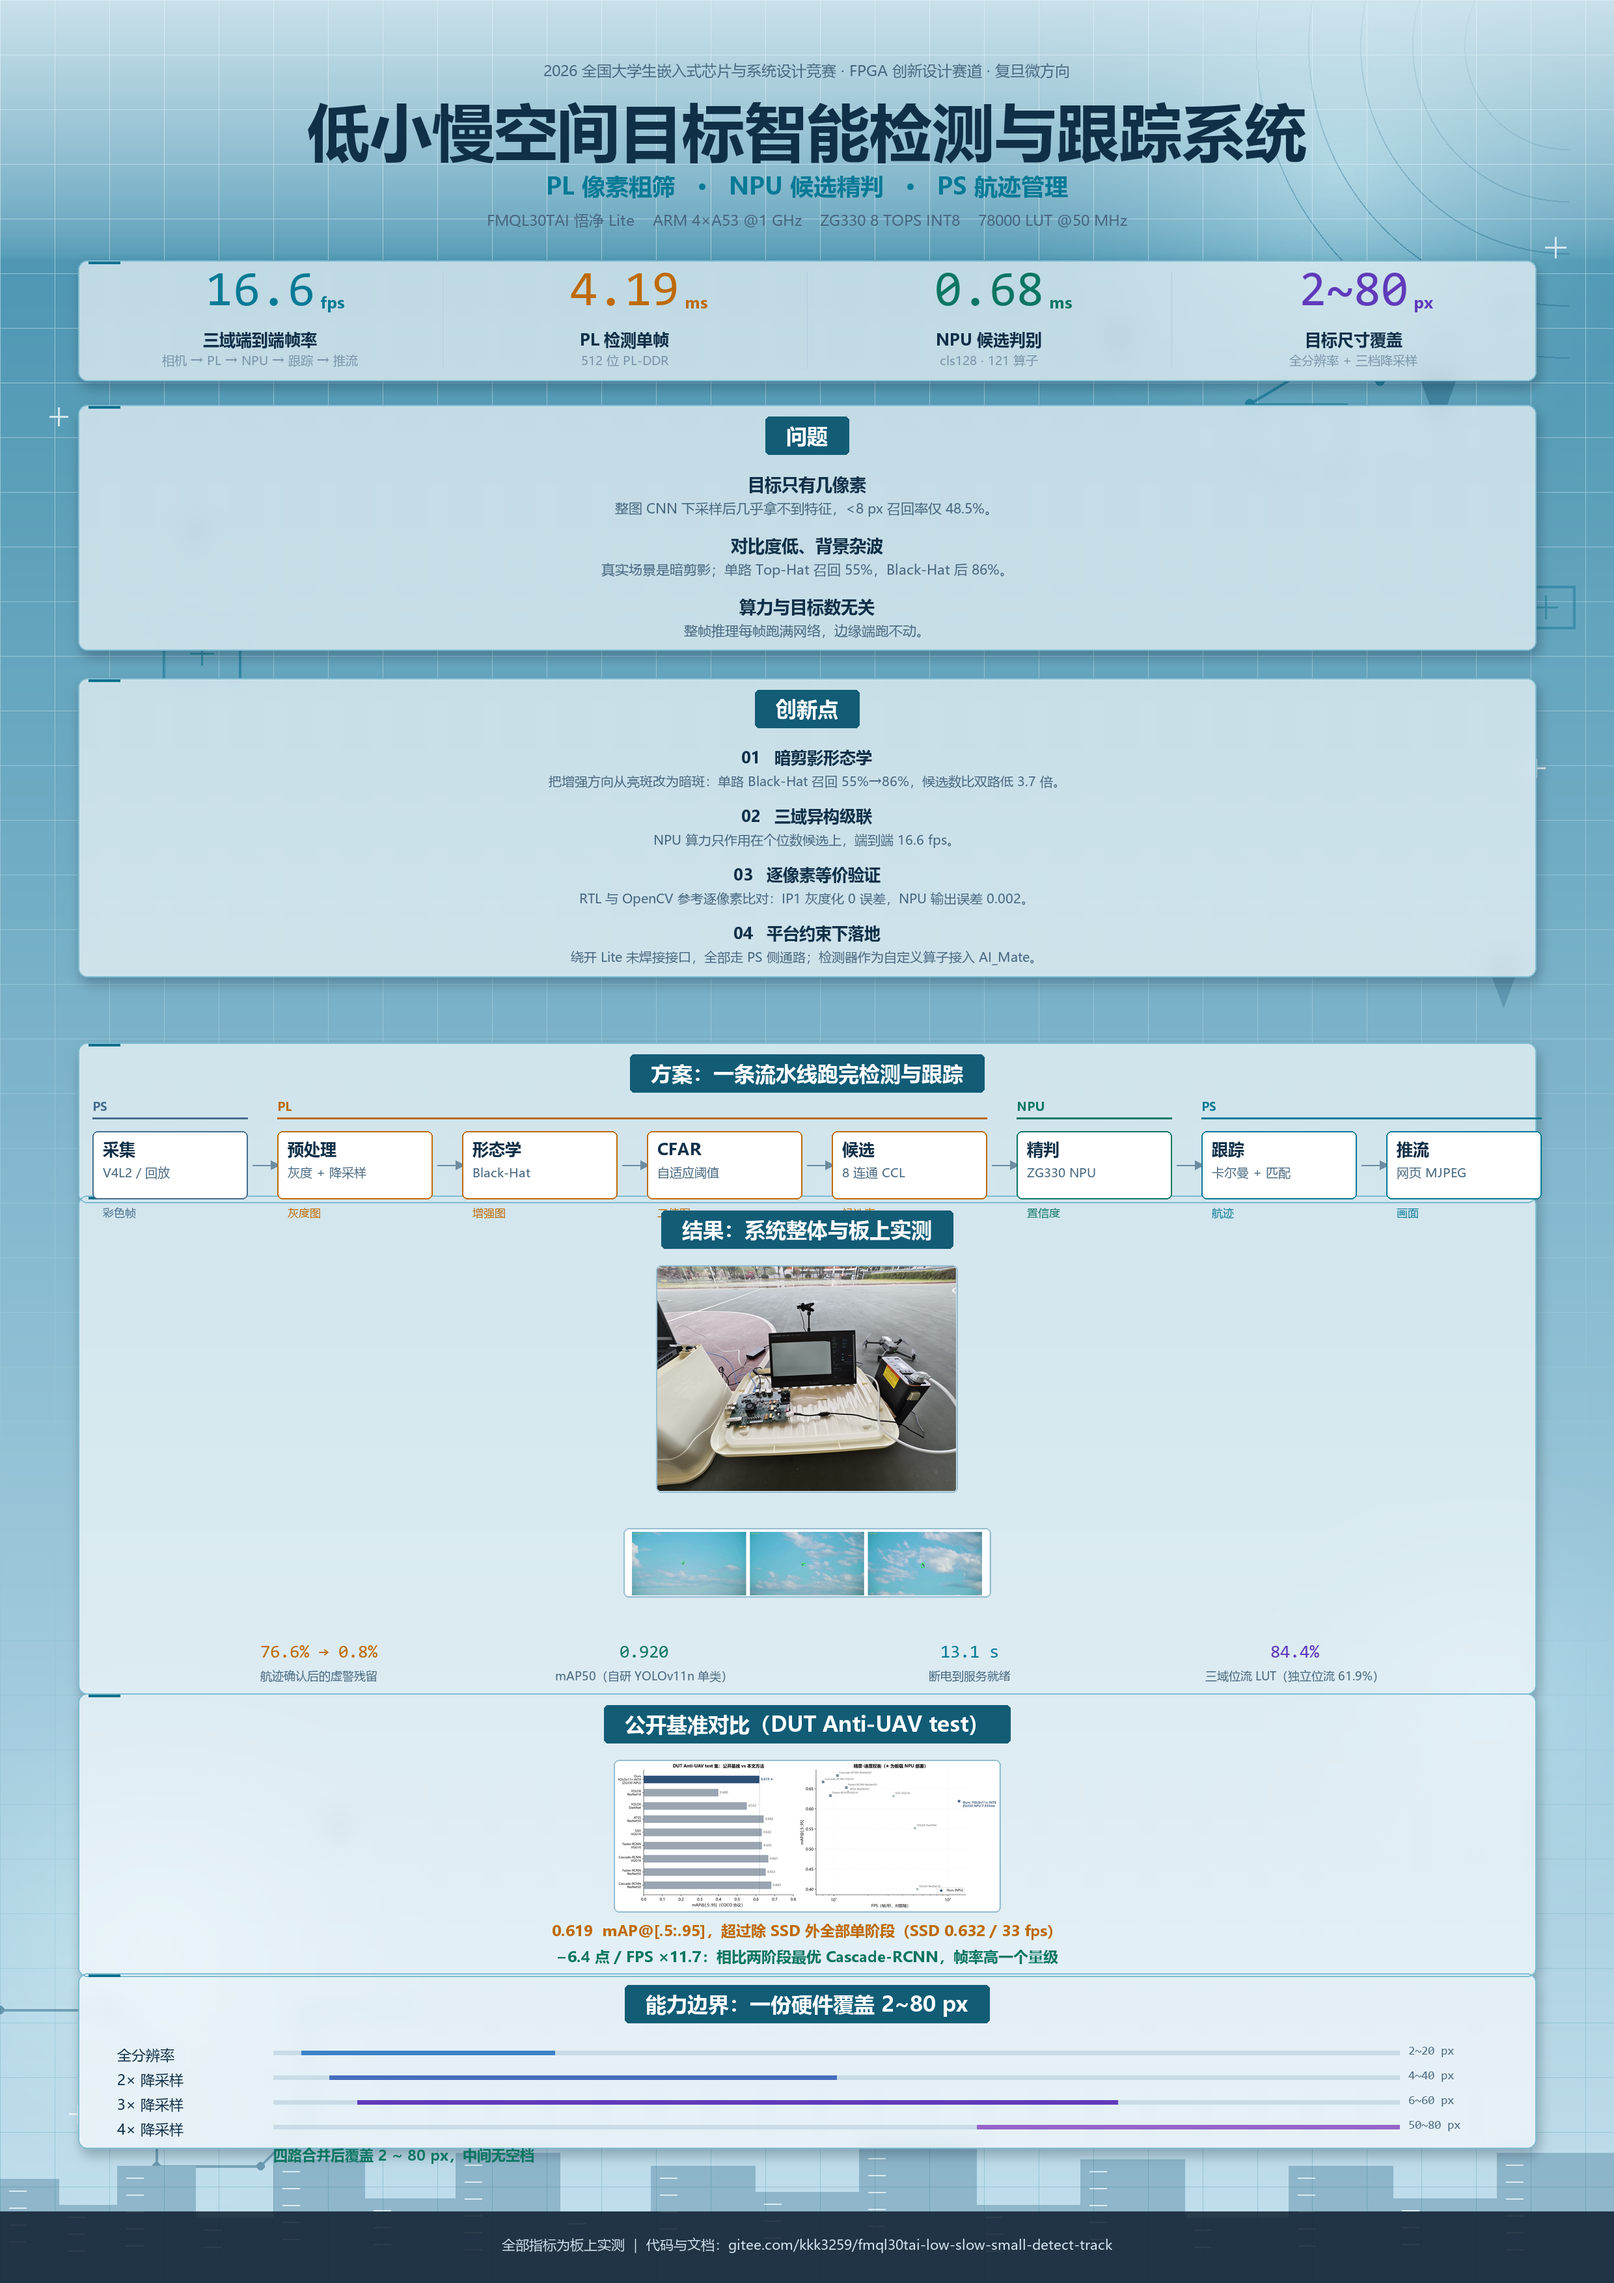
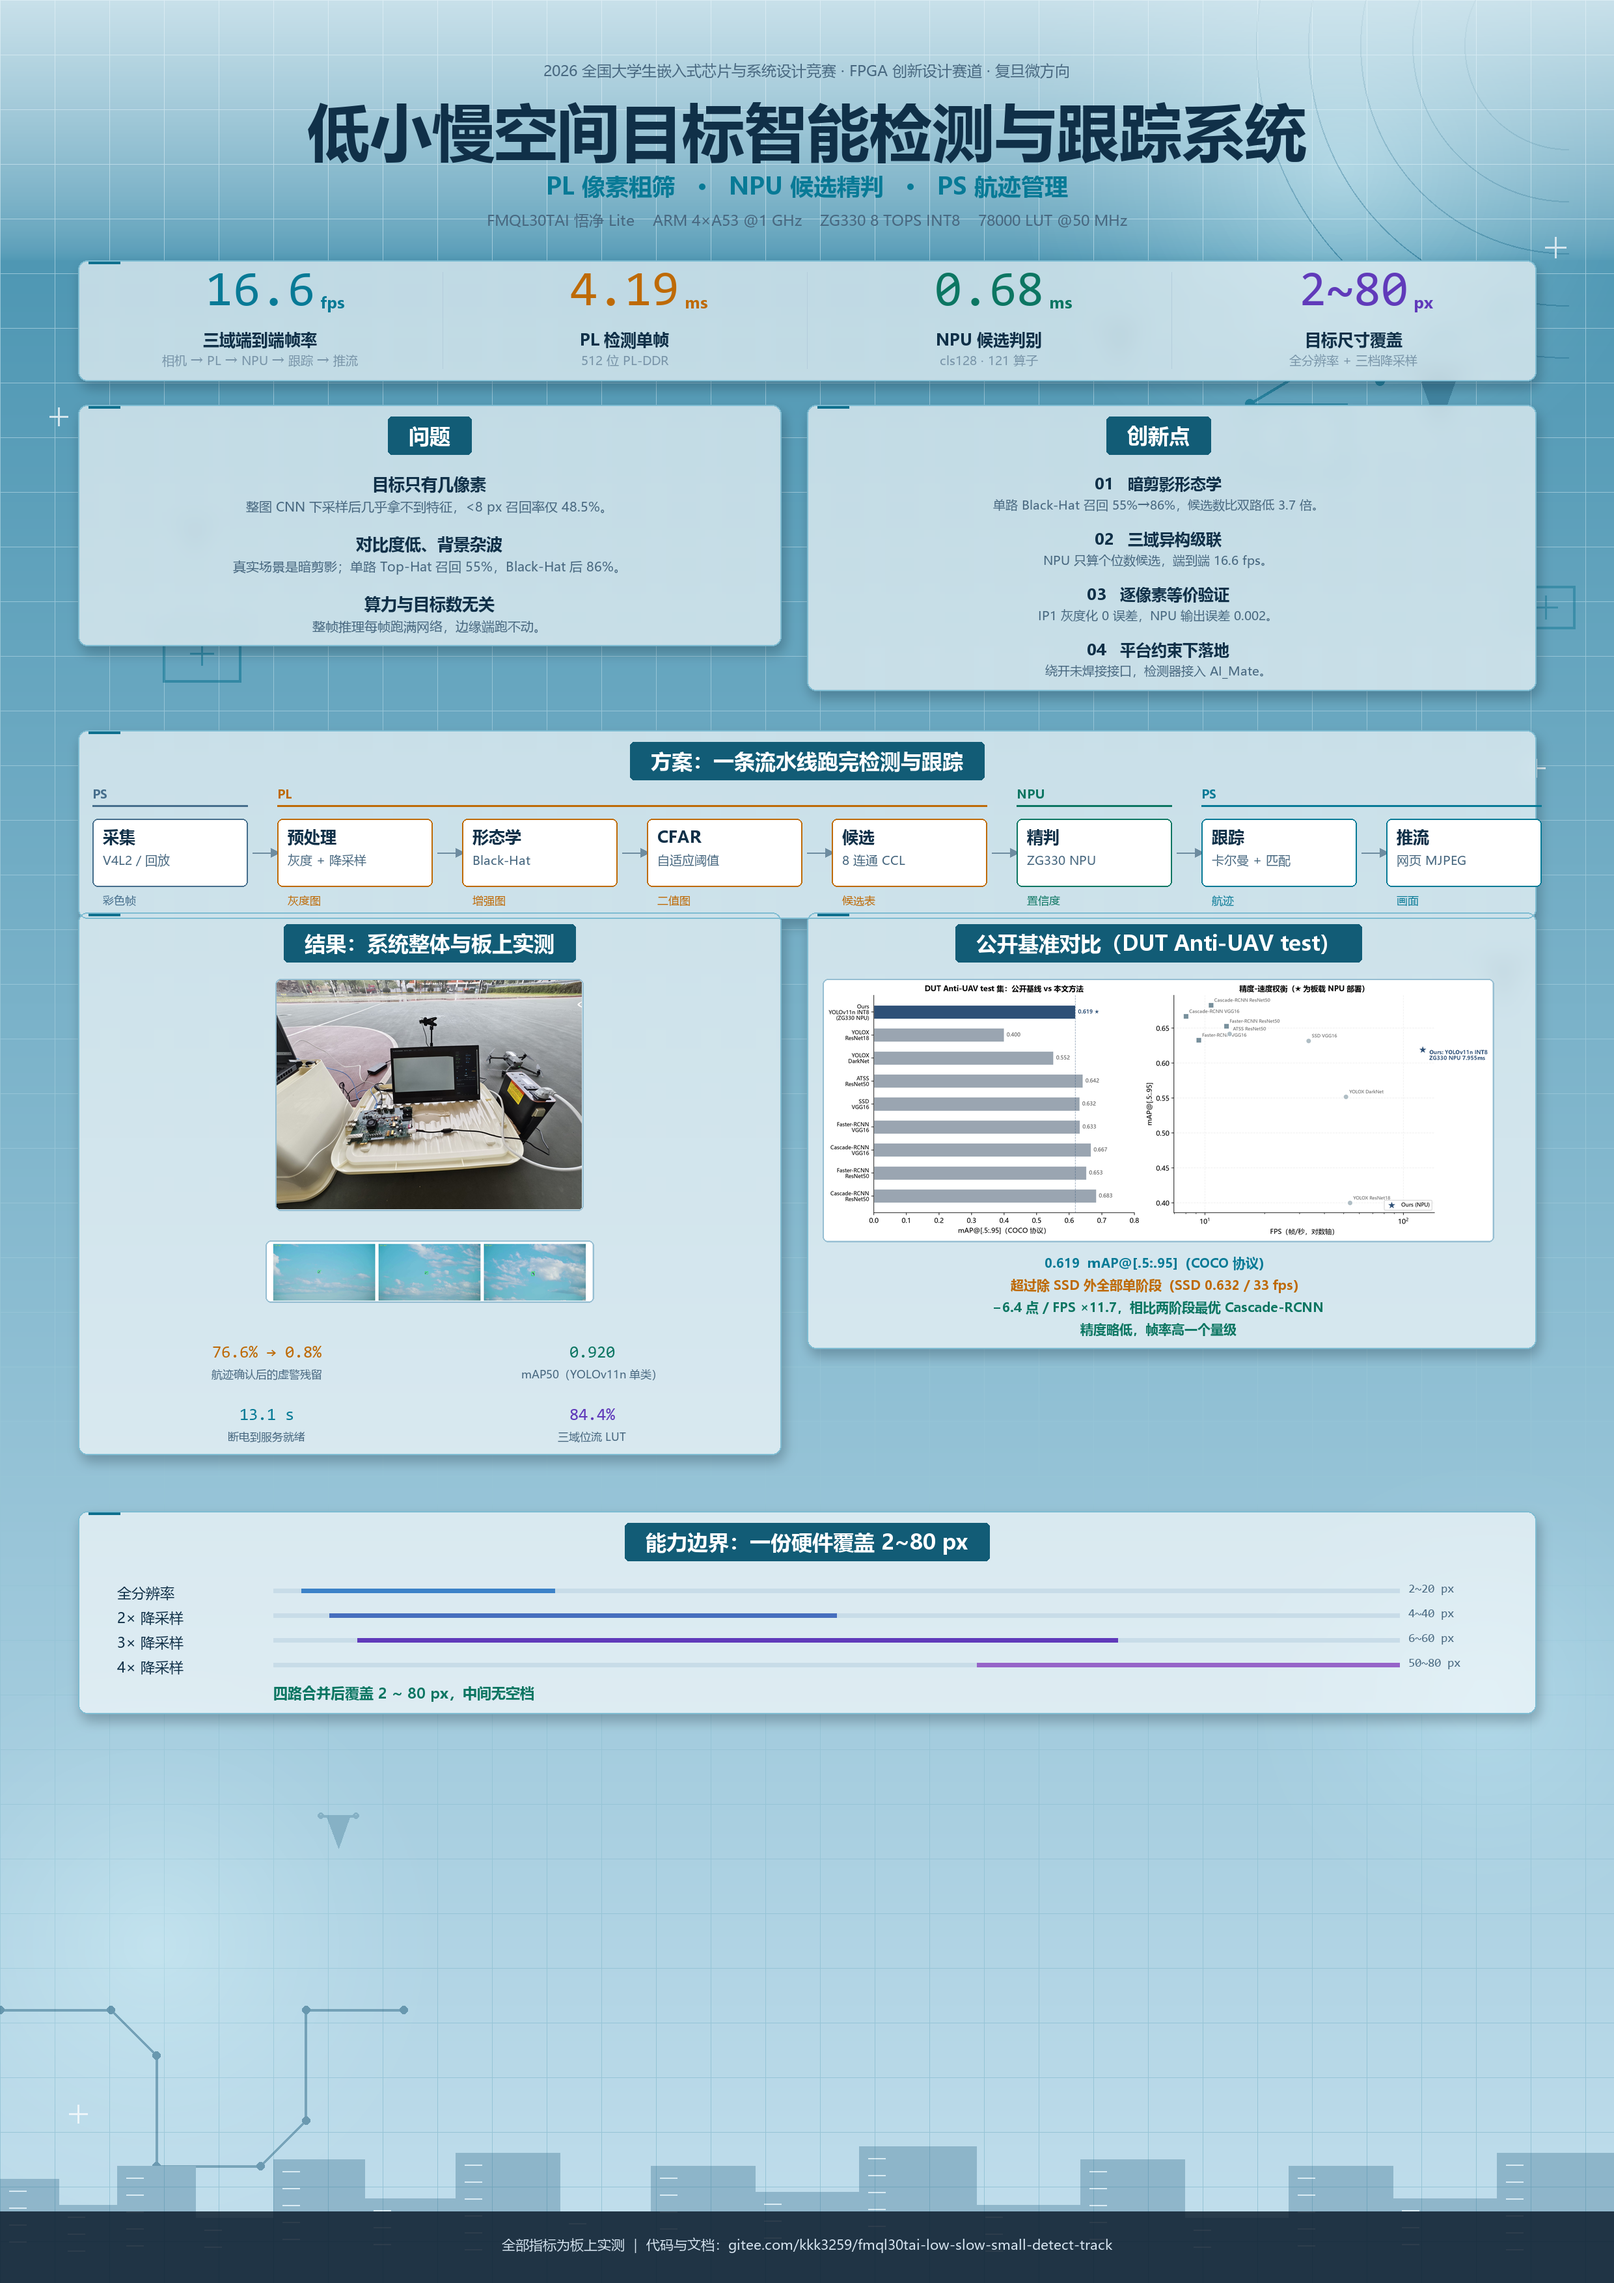
poster: 问题/创新点、结果/基准 两组左右并排

diff --git a/tools/make_poster_v2.py b/tools/make_poster_v2.py
@@ -138,6 +138,17 @@ def tech_bg():
     return img
 
 
+def section_at(d, cx, y, title, size=32):
+    """标题条以 cx 为中点"""
+    f = font(size)
+    w = tw(d, title, f)[0]
+    bw = w + 64
+    bx = cx - bw // 2
+    d.rounded_rectangle([bx, y, bx + bw, y + size + 26], radius=6, fill=BAR)
+    d.text((bx + 32, y + 7), title, font=f, fill=WHITE)
+    return y + size + 26 + 28
+
+
 def section(d, x, y, title, size=32):
     """标题条居中"""
     f = font(size)
@@ -258,67 +269,76 @@ def main():
         if i:
             d.line([(M + col_w * i, y + 6), (M + col_w * i, y + 154)], fill=(180, 205, 220), width=1)
 
-    # 问题（居中）
-    y = section(d, 0, 640, "问题")
+    # 左右两栏的几何
+    colw = 1080
+    gap = 40
+    lcx = M + colw // 2
+    rcx = M + colw + gap + colw // 2
+
+    # 左栏：问题
+    y = section_at(d, lcx, 640, "问题")
     items = [("目标只有几像素", "整图 CNN 下采样后几乎拿不到特征，<8 px 召回率仅 48.5%。"),
              ("对比度低、背景杂波", "真实场景是暗剪影；单路 Top-Hat 召回 55%，Black-Hat 后 86%。"),
              ("算力与目标数无关", "整帧推理每帧跑满网络，边缘端跑不动。")]
     yy = y
-    for head, body in items:
-        d.text((W // 2, yy), head, font=font(26), fill=INK, anchor="ma")
-        sub = wrap(d, body, font(21, False), 1500)
+    for head, body_text in items:
+        d.text((lcx, yy), head, font=font(25), fill=INK, anchor="ma")
+        sub = wrap(d, body_text, font(20, False), 980)
         for j, line in enumerate(sub):
-            d.text((W // 2, yy + 40 + j * 30), line, font=font(21, False), fill=INK2, anchor="ma")
-        yy += 46 + len(sub) * 30 + 18
+            d.text((lcx, yy + 38 + j * 28), line, font=font(20, False), fill=INK2, anchor="ma")
+        yy += 44 + len(sub) * 28 + 20
 
-    # 创新点（居中）
-    y = section(d, 0, 1060, "创新点")
-    inn = [("01", "暗剪影形态学", "把增强方向从亮斑改为暗斑：单路 Black-Hat 召回 55%→86%，候选数比双路低 3.7 倍。"),
-           ("02", "三域异构级联", "NPU 算力只作用在个位数候选上，端到端 16.6 fps。"),
-           ("03", "逐像素等价验证", "RTL 与 OpenCV 参考逐像素比对：IP1 灰度化 0 误差，NPU 输出误差 0.002。"),
-           ("04", "平台约束下落地", "绕开 Lite 未焊接接口，全部走 PS 侧通路；检测器作为自定义算子接入 AI_Mate。")]
-    yy = y
-    for num, head, body in inn:
-        d.text((W // 2, yy), f"{num}   {head}", font=font(25), fill=INK, anchor="ma")
-        sub = wrap(d, body, font(20, False), 1500)
+    # 右栏：创新点
+    y2 = section_at(d, rcx, 640, "创新点")
+    inn = [("01", "暗剪影形态学", "单路 Black-Hat 召回 55%→86%，候选数比双路低 3.7 倍。"),
+           ("02", "三域异构级联", "NPU 只算个位数候选，端到端 16.6 fps。"),
+           ("03", "逐像素等价验证", "IP1 灰度化 0 误差，NPU 输出误差 0.002。"),
+           ("04", "平台约束下落地", "绕开未焊接接口，检测器接入 AI_Mate。")]
+    yy = y2
+    for num, head, body_text in inn:
+        d.text((rcx, yy), f"{num}   {head}", font=font(24), fill=INK, anchor="ma")
+        sub = wrap(d, body_text, font(19, False), 980)
         for j, line in enumerate(sub):
-            d.text((W // 2, yy + 40 + j * 28), line, font=font(20, False), fill=INK2, anchor="ma")
-        yy += 46 + len(sub) * 28 + 16
+            d.text((rcx, yy + 36 + j * 27), line, font=font(19, False), fill=INK2, anchor="ma")
+        yy += 42 + len(sub) * 27 + 16
 
-    # 方案（居中流程）
-    y = section(d, 0, 1620, "方案：一条流水线跑完检测与跟踪")
+    # 方案（全宽居中）
+    y = section_at(d, W // 2, 1140, "方案：一条流水线跑完检测与跟踪")
     flow(d, (W - 2196) // 2, y, 2196)
 
-    # 结果（全部居中）
-    y = section(d, 0, 1860, "结果：系统整体与板上实测")
-    pw = 460
+    # 左栏：结果
+    y = section_at(d, lcx, 1420, "结果：系统整体与板上实测")
+    pw = 470
     paste_pic(content, os.path.join(FIG, "系统整体实现.jpg"),
-              [(W - pw) // 2, y, (W + pw) // 2, y + 345])
-    dw = 560
+              [lcx - pw // 2, y, lcx + pw // 2, y + 352])
+    dw = 500
     paste_pic(content, os.path.join(FIG, "图9b_NPU检测效果.png"),
-              [(W - dw) // 2, y + 360, (W + dw) // 2, y + 550], crop=(0, 128, 1724, 445))
-    ty = y + 580
+              [lcx - dw // 2, y + 364, lcx + dw // 2, y + 532], crop=(0, 128, 1724, 445))
+    ty = y + 560
     stats = [("76.6% → 0.8%", "航迹确认后的虚警残留", ORANGE),
-             ("0.920", "mAP50（自研 YOLOv11n 单类）", GREEN),
+             ("0.920", "mAP50（YOLOv11n 单类）", GREEN),
              ("13.1 s", "断电到服务就绪", CYAN),
-             ("84.4%", "三域位流 LUT（独立位流 61.9%）", PURPLE)]
+             ("84.4%", "三域位流 LUT", PURPLE)]
     for i, (v, l, c) in enumerate(stats):
-        sx = W // 2 + (i - 1.5) * 500
-        d.text((sx, ty), v, font=font(28, mono=True), fill=c, anchor="ma")
-        d.text((sx, ty + 36), l, font=font(18, False), fill=INK2, anchor="ma")
+        sx = lcx + (i % 2 - 0.5) * 500
+        sy = ty + (i // 2) * 96
+        d.text((sx, sy), v, font=font(26, mono=True), fill=c, anchor="ma")
+        d.text((sx, sy + 34), l, font=font(17, False), fill=INK2, anchor="ma")
 
-    # 公开基准（图 + 结论，居中）
-    y = section(d, 0, 2620, "公开基准对比（DUT Anti-UAV test）")
+    # 右栏：公开基准
+    y2 = section_at(d, rcx, 1420, "公开基准对比（DUT Anti-UAV test）")
     paste_pic(content, os.path.join(FIG, "baseline_comparison.png"),
-              [M + 160, y, W - M - 160, y + 230])
-    ty = y + 244
-    for v, c in [("0.619  mAP@[.5:.95]，超过除 SSD 外全部单阶段（SSD 0.632 / 33 fps）", ORANGE),
-                 ("−6.4 点 / FPS ×11.7：相比两阶段最优 Cascade-RCNN，帧率高一个量级", GREEN)]:
-        d.text((W // 2, ty), v, font=font(23), fill=c, anchor="ma")
-        ty += 40
+              [rcx - colw // 2 + 20, y2, rcx + colw // 2 - 20, y2 + 400])
+    ty2 = y2 + 420
+    for v, c in [("0.619  mAP@[.5:.95]（COCO 协议）", CYAN),
+                 ("超过除 SSD 外全部单阶段（SSD 0.632 / 33 fps）", ORANGE),
+                 ("−6.4 点 / FPS ×11.7，相比两阶段最优 Cascade-RCNN", GREEN),
+                 ("精度略低，帧率高一个量级", GREEN)]:
+        d.text((rcx, ty2), v, font=font(20), fill=c, anchor="ma")
+        ty2 += 34
 
-    # 能力边界（居中）
-    y = section(d, 0, 3050, "能力边界：一份硬件覆盖 2~80 px")
+    # 能力边界（全宽）
+    y = section_at(d, W // 2, 2340, "能力边界：一份硬件覆盖 2~80 px")
     coverage(d, M + 60, y, W - 2 * M - 120)
 
     # 页脚
@@ -328,8 +348,11 @@ def main():
            font=font(21, False), fill=(214, 228, 240), anchor="ma")
 
     # 每个内容块加磨砂玻璃底
-    blocks = [(390, 610), (620, 1030), (1050, 1520), (1530, 1830),
-              (1850, 2590), (2610, 3030), (3050, 3290)]
+    blocks = [(M, W - M, 390, 610),
+              (M, M + colw, 620, 1140), (M + colw + gap, W - M, 620, 1140),
+              (M, W - M, 1140, 1420),
+              (M, M + colw, 1420, 2320), (M + colw + gap, W - M, 1420, 2320),
+              (M, W - M, 2340, 2700)]
     bg_clear = tech_bg()
     blur_bg = bg_clear.filter(ImageFilter.GaussianBlur(16))
     img = bg_clear.convert("RGBA")
@@ -342,11 +365,11 @@ def main():
     img = Image.alpha_composite(img, veil)
 
     boxes = []
-    for a, b in blocks:
-        bb = content.crop((0, a, W, b)).getbbox()
+    for bx0, bx1, a, b in blocks:
+        bb = content.crop((bx0, a, bx1, b)).getbbox()
         if not bb:
             continue
-        boxes.append((M, a + bb[1] - 18, W - M, a + bb[3] + 18))
+        boxes.append((bx0, a + bb[1] - 18, bx1, a + bb[3] + 18))
 
     # 柔和投影
     shadow = Image.new("RGBA", (W, H), (0, 0, 0, 0))
